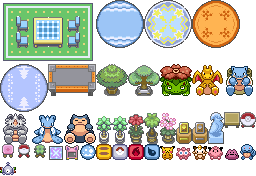
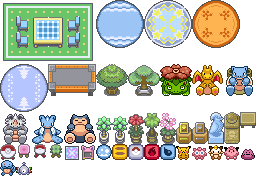
THE PROMENADE keeps its word: THE DIG pays a real SAND ORNAMENT, a game's result is never swallowed, and the signs promise only what is there
The harbour critic tour (26 Nov 2026) scored the east of THE HARBOUR 5/10.

- THE DIG paid "sand-ornament", an id no item or furniture had. It is now
  Emerald's own SAND ORNAMENT, cut onto home-furniture.png by
  scripts/cut-home-furniture.mjs from the pinned pokeemerald commit, an item
  and a piece of furniture of its own (source `dug`) that stands in THE
  BOLTHOLE.
- A game's end puts the cursor on who played, not on AGAIN, and AGAIN takes no
  press for a moment: the SPACE still being pressed at the FISHING DERBY's
  buzzer started a new derby over the result.
- "A tally of 60 pays 10 tickets" is said only to a day that has paid nothing.
- The signs and people say what is true: no Sunday band, no gulls, the derby is
  a tally, DODUO plays BERRY PICKING too, the PROMENADE sign is one box, the
  DIG's caption names what goes home, and the coin telescope on THE POINT
  answers.

Changed region(s): [[0.0, 0.625, 1.0, 1.0]]

diff --git a/src/game/base/baseMap.ts b/src/game/base/baseMap.ts
@@ -181,7 +181,8 @@ export const PROMENADE_SIGN: BaseSign = {
   y: 11,
   lines: [
     'THE PROMENADE',
-    'The front, round the bay: the DERBY starts here, the GAME CORNER is on PIER SQUARE, the DIG is on the beach, the FISHING DERBY off the end of the PLEASURE PIER and the FIELD-MOVE COURSE out on THE POINT. Walk it at dusk when the lamps come on.',
+    // One box: the four-box directory of five places is left to each place's own sign (the harbour critic tour).
+    'Races here, games on PIER SQUARE, digging on the beach, fishing off the pier, a course on THE POINT.',
   ],
 };
 
@@ -194,7 +195,7 @@ export const GAME_CORNER_SIGN: BaseSign = {
   y: 11,
   lines: [
     'THE GAME CORNER',
-    'POKéMON JUMP and BERRY PICKING inside - bring your best jumpers, and a DODRIO. TICKETS are kept at home and spent at the PRIZE WINDOW next door.',
+    'POKéMON JUMP and BERRY PICKING inside - bring your best jumpers, and a DODUO or DODRIO. TICKETS are kept at home and spent at the PRIZE WINDOW next door.',
   ],
 };
 
@@ -202,14 +203,27 @@ export const GAME_CORNER_SIGN: BaseSign = {
 export const GARDENS_SIGN: BaseSign = {
   x: 103,
   y: 11,
-  lines: ['THE GARDENS', 'The band plays Sundays. Mind the beds.'],
+  // No band plays, on any day (the harbour critic tour, 26 Nov 2026).
+  lines: ['THE GARDENS', 'Sit a while. Mind the beds.'],
+};
+
+/**
+ * THE POINT's coin telescope, read as a sign: faced, it answered with the
+ * partner's small talk, a prop with nothing behind it (the harbour critic
+ * tour, 26 Nov 2026). Its post is drawn by `map.plant(..., 'coinTelescope')`.
+ */
+export const COIN_TELESCOPE: BaseSign = {
+  x: 120,
+  y: 16,
+  lines: ['THE COIN TELESCOPE', 'It wants a coin you have not got. Through the dusty glass: the open sea, and nothing on it.'],
 };
 
 /** At the pleasure pier's gate, on PIER SQUARE's foot against its rail, beside the way on. */
 export const PLEASURE_PIER_SIGN: BaseSign = {
   x: 81,
   y: 15,
-  lines: ['THE PLEASURE PIER', 'Out over the sea. Mind the gulls.'],
+  // Kanto has no gull to mind; the FISHING DERBY is off its end.
+  lines: ['THE PLEASURE PIER', 'Out over the sea. The big ones bite off the end.'],
 };
 
 /**
@@ -244,6 +258,7 @@ export const BASE_SIGNS: readonly BaseSign[] = [
   GAME_CORNER_SIGN,
   PLEASURE_PIER_SIGN,
   GARDENS_SIGN,
+  COIN_TELESCOPE,
   BREAKWATER_SIGN,
   NOTICE_BOARD,
   HOME_SIGN,
@@ -722,7 +737,7 @@ function plantPromenade(map: MapSketch<BasePropName>): void {
   for (const x of [117, 118, 119, 121, 122, 123]) map.plant(x, 16, 'railing');
   map.plant(115, 11, 'troughYellow');
   map.plant(118, 15, 'seaBench');
-  map.plant(120, 16, 'coinTelescope');
+  map.plant(COIN_TELESCOPE.x, COIN_TELESCOPE.y, 'coinTelescope');
   map.plant(122, 15, 'seaBench');
 }
 

diff --git a/src/game/scenes/OutdoorGameScene.ts b/src/game/scenes/OutdoorGameScene.ts
@@ -8,6 +8,7 @@ import { GAME_FONT } from '../ui/gameFont';
 import { MenuOverlay } from '../ui/MenuOverlay';
 import { pickerBasics, pickerEntries, pickerOrder, wirePickerFind, type PickerEntry } from '../ui/boxPicker';
 import { isOverlayDismissKey } from '../ui/overlayKeyboard';
+import { RELEASE_ARMING_MS } from '../ui/spatialFocus';
 import { CHIP_FONT_SIZE, DIALOG_FONT_SIZE } from '../ui/screenType';
 import { outdoorPickMarkup, type OutdoorCandidate, type OutdoorCourse, type OutdoorPickState } from '../minigames/outdoorView';
 import { NO_GAME_CORNER, type DerbySource, type GameCornerRecord, type GamePayout, type TicketSource } from '../minigames/tickets';
@@ -48,6 +49,8 @@ export abstract class OutdoorGameScene extends Phaser.Scene implements ProvidesF
   protected last: OutdoorPickState['last'];
   /** Whether a game is being played (the canvas) rather than chosen (the screen). */
   protected playing = false;
+  /** When the last game ended, so AGAIN takes no press for a moment after (`endGame`). */
+  private endedAt: number | undefined;
   protected readonly saveManager = new SaveManager();
   private find = '';
   private stageParts: Phaser.GameObjects.GameObject[] = [];
@@ -241,6 +244,9 @@ export abstract class OutdoorGameScene extends Phaser.Scene implements ProvidesF
           audioManager.play('denied');
           return;
         }
+        if (this.endedAt !== undefined && this.time.now - this.endedAt < RELEASE_ARMING_MS) {
+          return;
+        }
         this.startGame();
       };
     }
@@ -292,7 +298,12 @@ export abstract class OutdoorGameScene extends Phaser.Scene implements ProvidesF
     recordAction(`${this.words.title} scored ${score}`);
     this.tearDownStage();
     this.playing = false;
-    this.showMenu('[data-play]');
+    // The cursor comes back to who played, never to AGAIN: SPACE casts in
+    // THE FISHING DERBY, and the press still going at the buzzer started a
+    // new two-minute derby over the result before it was read (the harbour
+    // critic tour, 26 Nov 2026). AGAIN also takes nothing for a moment.
+    this.endedAt = this.time.now;
+    this.showMenu('[data-player-pick].is-selected');
   }
 
   // --- drawing helpers -------------------------------------------------------------

diff --git a/src/game/minigames/outdoorGames.test.ts b/src/game/minigames/outdoorGames.test.ts
@@ -17,7 +17,9 @@ import {
   type DerbyEntrant,
   type DerbyStretch,
 } from './derby';
-import { DIG_HEIGHT, DIG_WIDTH, digAt, digShape, digsFor, isDug, startDig } from './dig';
+import { DIG_BERRIES, DIG_HEIGHT, DIG_ORNAMENT, DIG_WIDTH, digAt, digShape, digsFor, isDug, startDig } from './dig';
+import { getItemById } from '../items';
+import { furnitureNamed } from '../home/furniture';
 import { biteChance, catchScore, FISHING_DERBY_MS, landCatch, modelFishingDerby, startFishingDerby } from './fishingDerby';
 import { modelDerby, modelDig } from './outdoorModels';
 import { derbyTickets, digTickets, fishingDerbyTickets } from './tickets';
@@ -157,6 +159,14 @@ describe('THE PROMENADE DERBY', () => {
 });
 
 describe('THE DIG', () => {
+  /** It paid a "sand-ornament" no item or furniture had, and the vault held a thing nothing could name (the harbour critic tour, 26 Nov 2026). */
+  it('buries only things the game can name, and the ornament stands in the house', () => {
+    for (const itemId of [...DIG_BERRIES, DIG_ORNAMENT]) {
+      expect([itemId, getItemById(itemId)?.displayName !== undefined]).toEqual([itemId, true]);
+    }
+    expect(furnitureNamed(DIG_ORNAMENT)?.name).toBe('SAND ORNAMENT');
+  });
+
   it('buries six things, three of them berries, and never two in a square', () => {
     for (let seed = 1; seed <= 50; seed += 1) {
       const game = startDig(traits('charmander'), seed);

diff --git a/src/game/minigames/gameCornerTalk.ts b/src/game/minigames/gameCornerTalk.ts
@@ -60,7 +60,7 @@ export function jumpCabinetLines(): readonly string[] {
 
 /** The second line on the BERRY PICKING cabinet's caption. */
 export function berryCabinetNote(progress: Pick<RaidProgress, 'gameCorner'>, now: Date): string {
-  return cabinetNote(progress, now, 'berry-picking', 'Bring a DODRIO');
+  return cabinetNote(progress, now, 'berry-picking', 'Bring a DODUO or DODRIO');
 }
 
 /** What BERRY PICKING says when it is read rather than played. */
@@ -128,7 +128,7 @@ export function attendantLines(progress: Pick<RaidProgress, 'gameCorner'>): read
   const record = progress.gameCorner ?? NO_GAME_CORNER;
   const lines = [
     'Welcome to the GAME CORNER! No coins here - the cabinets pay out in TICKETS.',
-    "POKéMON JUMP's down the left and BERRY PICKING's down the right. You'll want a DODRIO for that one.",
+    "POKéMON JUMP's down the left and BERRY PICKING's down the right. You'll want a DODUO or a DODRIO for that one.",
     "A better score pays more, once a day, and each cabinet's screen says what. The lamps on the front show what it's paid you today.",
     "Spend your tickets at the PRIZE WINDOW next door, and keep an eye on the HIGH SCORES board. The regulars are on it too.",
   ];

diff --git a/src/game/base/harbourLife.ts b/src/game/base/harbourLife.ts
@@ -353,7 +353,7 @@ export const HARBOUR_PEOPLE: readonly HarbourPerson[] = [
     idle: { glances: ['up', 'right'], beatMs: 4300 },
     lines: [
       'My RATTATA jumps that vine like it\'s nothing! Small and quick, that\'s the trick.',
-      'I\'m saving my TICKETS for the CUTE TV. Ninety-eight more games to go.',
+      'I\'m saving my TICKETS for the CUTE TV. Ages to go yet.',
     ],
   },
   // A fisherman with his line over the pleasure pier's middle stop, seen
@@ -369,7 +369,8 @@ export const HARBOUR_PEOPLE: readonly HarbourPerson[] = [
     idle: { glances: ['right', 'down'], beatMs: 7900 },
     lines: [
       'Tiddlers, this close in. The big ones are off the end of the pier.',
-      'The FISHING DERBY board\'s out there. Two minutes, and the biggest catch wins.',
+      // A tally, not the biggest fish (`fishingDerby.ts`, `catchScore`).
+      'The FISHING DERBY board\'s out there. Two minutes: every bite counts, and a new kind counts extra.',
     ],
   },
   // THE FIELD-MOVE COURSE's keeper, at its gate with his box of HMs: he lends

diff --git a/src/game/home/furniture.test.ts b/src/game/home/furniture.test.ts
@@ -65,9 +65,13 @@ describe('the furniture catalogue', () => {
       expect(existsSync(`public/assets/icons/${definition.id}.png`)).toBe(true);
     }
     // And the other way: no furniture item a piece does not stand for.
+    // THE DIG's SAND ORNAMENT is the one piece won at a game on THE BEACH rather than found on a raid.
     for (const item of ITEM_DEFINITIONS.filter((each) => each.effect.type === 'furniture')) {
-      expect(furnitureNamed(item.id)?.source).toEqual({ kind: 'found', itemId: item.id });
+      expect([{ kind: 'found', itemId: item.id }, { kind: 'dug', itemId: item.id }]).toContainEqual(furnitureNamed(item.id)?.source);
     }
+    const dug = furnitureNamed('sand-ornament');
+    expect(dug?.source).toEqual({ kind: 'dug', itemId: 'sand-ornament' });
+    expect(existsSync('public/assets/icons/sand-ornament.png')).toBe(true);
   });
 
   it('is never a supply anything that repeats could hand out', () => {

diff --git a/src/game/home/furniture.ts b/src/game/home/furniture.ts
@@ -52,6 +52,8 @@ export type FurnitureArt =
 export type FurnitureSource =
   | { readonly kind: 'house'; readonly count: number }
   | { readonly kind: 'found'; readonly itemId: string }
+  /** Kept in the vault as an item, as a find is, but won at THE DIG rather than found on a raid. */
+  | { readonly kind: 'dug'; readonly itemId: string }
   | { readonly kind: 'doll'; readonly dexId: number };
 
 export interface FurnitureDefinition {
@@ -387,6 +389,15 @@ const PIECES: readonly FurnitureDefinition[] = [
     piece: 'glass-ornament',
     source: found('glass-ornament'),
     rare: true,
+  }),
+  piece({
+    id: 'sand-ornament',
+    name: 'SAND ORNAMENT',
+    // Emerald's own words for it.
+    line: 'An ornament made of sand, from THE DIG. It crumbles if touched.',
+    layer: 'standing',
+    piece: 'sand-ornament',
+    source: { kind: 'dug', itemId: 'sand-ornament' },
   }),
 ];
 

diff --git a/src/game/minigames/tickets.test.ts b/src/game/minigames/tickets.test.ts
@@ -312,3 +312,16 @@ describe('a Game Corner record out of a save', () => {
     expect(readGameCorner({ tickets: 2.5, best: { 'pokemon-jump': -1 } })).toEqual({ tickets: 0, best: {}, day: null });
   });
 });
+
+/** "A tally of 60 pays 10 tickets" was said after a derby of 112 had paid them that day (the harbour critic tour, 26 Nov 2026). */
+describe('what a game that paid nothing says', () => {
+  it('names the first tier only to a day that has reached none', () => {
+    const at = new Date(2026, 10, 26, 12);
+    const fresh = payGame(NO_GAME_CORNER, 'fishing-derby', 19, at);
+    expect(payoutWords(fresh, [])).toContain('pays');
+    const paid = payGame(NO_GAME_CORNER, 'fishing-derby', 112, at).record;
+    const after = payGame(paid, 'fishing-derby', 19, at);
+    expect(after.firstTier).toBeNull();
+    expect(payoutWords(after, [])).not.toMatch(/A tally of \d+ pays/);
+  });
+});

diff --git a/src/game/items/items.ts b/src/game/items/items.ts
@@ -1154,6 +1154,17 @@ export const ITEMS = {
     description: 'A silver shield on a stand. Super rare. Furniture: bring it home and put it down in THE BOLTHOLE.',
     effect: { type: 'furniture' },
   },
+  // Emerald's own, and only ever dug up: THE DIG's top find on THE BEACH
+  // (`minigames/dig.ts`). It was paid out by id before it existed, and the
+  // vault held a thing nothing could name (the harbour critic tour).
+  'sand-ornament': {
+    id: 'sand-ornament',
+    displayName: 'Sand Ornament',
+    category: ItemCategory.Furniture,
+    footprint: { width: 1, height: 2 },
+    description: 'An ornament made of sand, dug up on THE BEACH. Furniture: put it down in THE BOLTHOLE.',
+    effect: { type: 'furniture' },
+  },
   'glass-ornament': {
     id: 'glass-ornament',
     displayName: 'Glass Ornament',

diff --git a/src/game/minigames/tickets.ts b/src/game/minigames/tickets.ts
@@ -420,7 +420,10 @@ export function payGame(record: GameCornerRecord, source: TicketSource, result: 
     berries,
     newBest: rules.better(result, everBest),
     bestToday: result > 0 && best === result,
-    firstTier: rules.tickets(result) > 0 || rules.berries(result) > 0 ? null : rules.firstTier,
+    // The first tier is news only to a day that has reached none: after a
+    // derby of 112 had paid, a stopped game of 19 said "A tally of 60 pays 10
+    // tickets" (the harbour critic tour, 26 Nov 2026).
+    firstTier: rules.tickets(best) > 0 || rules.berries(best) > 0 ? null : rules.firstTier,
     course: rules.course ?? null,
     record: {
       tickets: record.tickets + tickets,

diff --git a/src/game/minigames/arcade.test.ts b/src/game/minigames/arcade.test.ts
@@ -147,7 +147,7 @@ describe('THE GAME CORNER as an arcade', () => {
     const full = payGame(record, 'pokemon-jump', 7000, NOW).record;
     expect(jumpCabinetNote({ gameCorner: full }, NOW)).toBe('Today 7,000 · paid all 30 today');
     expect(jumpCabinetNote({ gameCorner: full }, new Date(2026, 10, 8, 9, 0))).toBe('Your best 7,000');
-    expect(berryCabinetNote({ gameCorner: full }, NOW)).toBe('Bring a DODRIO');
+    expect(berryCabinetNote({ gameCorner: full }, NOW)).toBe('Bring a DODUO or DODRIO');
   });
 
   it('hangs the HIGH SCORES board on the back wall beside the counter, faced from the floor in front of it', () => {

diff --git a/src/game/home/houseSnapshot.ts b/src/game/home/houseSnapshot.ts
@@ -28,7 +28,7 @@ const SNAPSHOT_MAP_ID = 'floodplain-relay';
 export function houseSnapshot(game: RestoredGame): Record<string, unknown> | null {
   const stash = new Stash();
   for (const definition of FURNITURE) {
-    if (definition.source.kind === 'found') {
+    if (definition.source.kind === 'found' || definition.source.kind === 'dug') {
       const count = game.stash.itemCount(definition.source.itemId);
       if (count > 0) {
         stash.addItem(definition.source.itemId, count);
